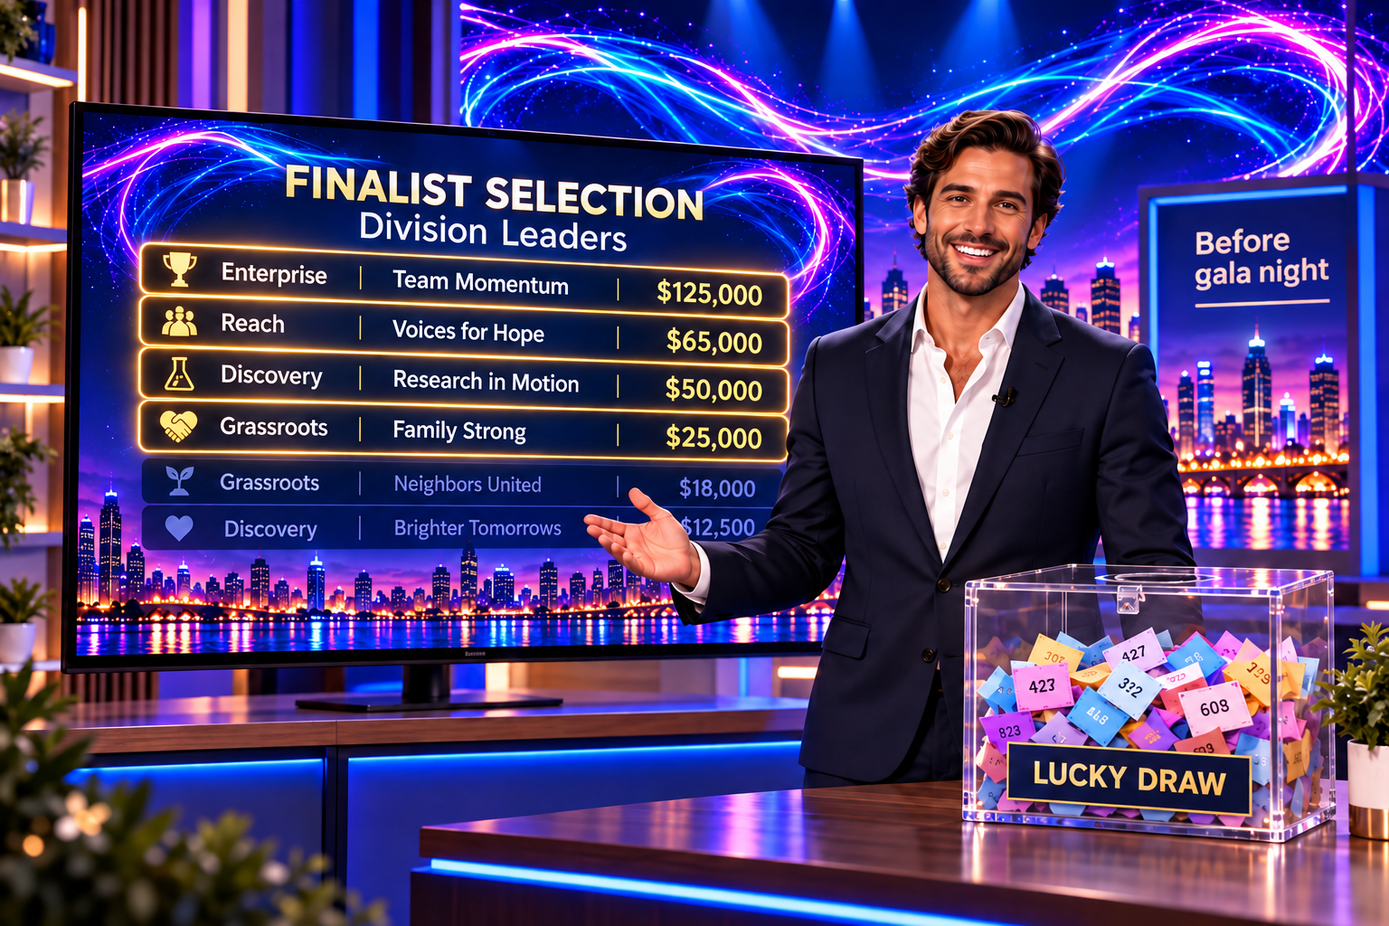
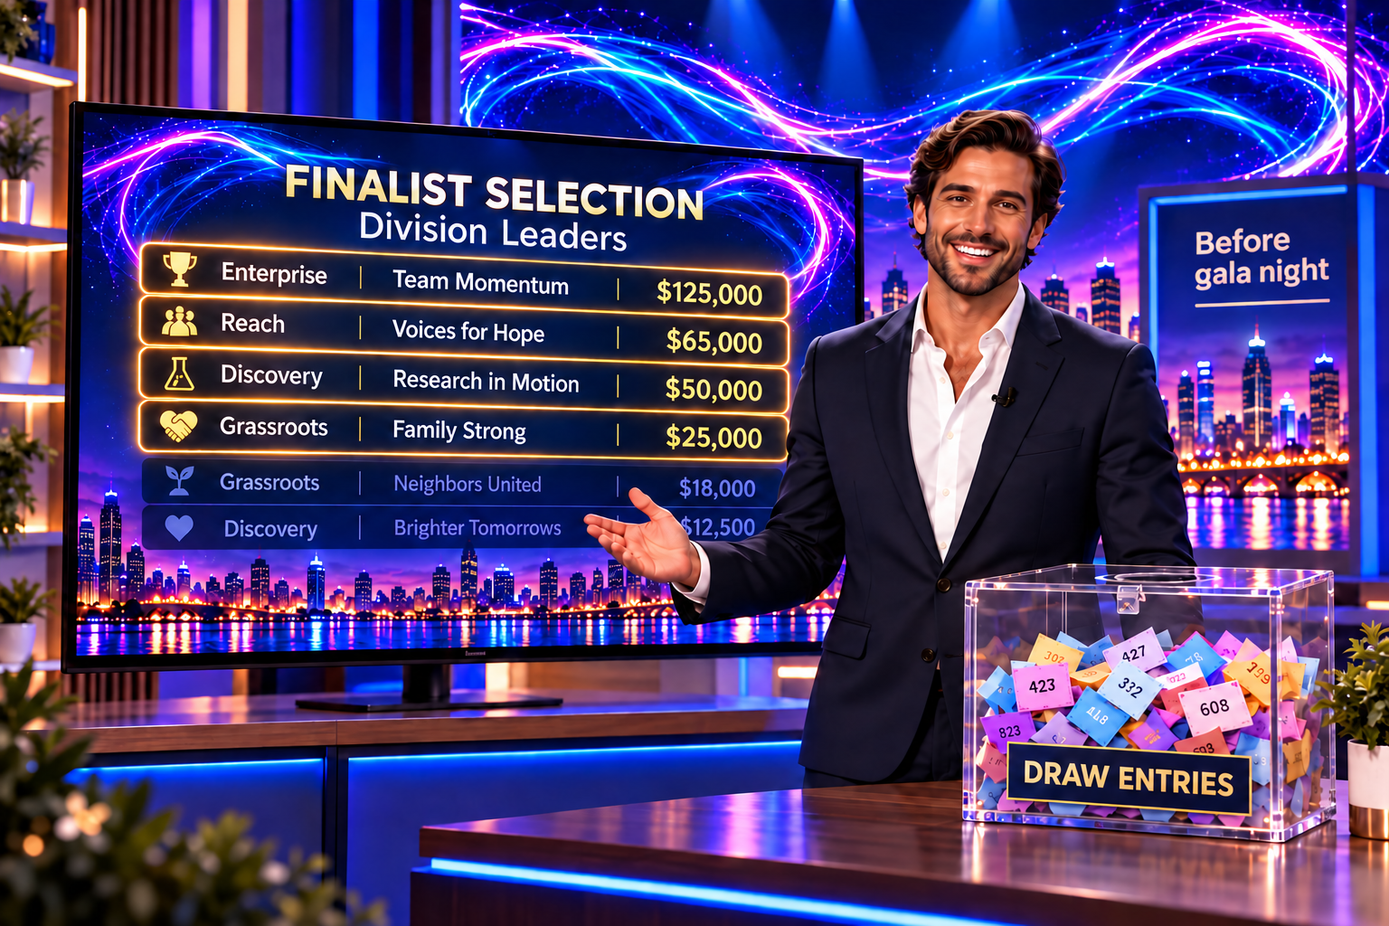
Update section 2 image; add training tagline
Claude-Session: https://claude.ai/code/session_01SDuMShRTmDhf1bS4TY8nhA

diff --git a/how-it-works.html b/how-it-works.html
@@ -1,1 +1,1 @@
-<!doctype html><html lang="en"><head><meta charset="utf-8"><meta name="viewport" content="width=device-width,initial-scale=1"><title>How It Works · Dancing to Beat ALS</title><style>*{box-sizing:border-box}html{scroll-behavior:smooth}body{margin:0;font:15px/1.65 'Segoe UI',sans-serif}main{max-width:1220px;margin:38px auto;padding:0 28px}.eyebrow{font-size:11px;letter-spacing:2px;font-weight:750}h1{font:clamp(34px,4vw,49px)/1.15 Georgia,serif;margin:12px 0 15px;max-width:850px}.flow-intro{max-width:800px;font-size:16px;color:#64708c}.flow-nav{display:grid;grid-template-columns:repeat(6,minmax(0,1fr));gap:12px;margin:28px 0 36px}.flow-nav a{font-size:12px;color:#47529e;text-decoration:none;border:1px solid #d4d9ef;background:#fff;border-radius:8px;padding:12px;display:flex;gap:8px;align-items:center}.flow-nav span,.flow-stage-label span{display:grid;place-items:center;width:26px;height:26px;flex-shrink:0;border-radius:50%;background:#ebeafd;color:#5543ad;font-weight:750}.flow-stage{display:grid;grid-template-columns:1fr 1.15fr;gap:36px;align-items:center;margin:25px 0 45px;padding-bottom:40px;border-bottom:1px solid #dce1f1;scroll-margin-top:20px}.flow-stage:nth-of-type(even) .flow-art{order:2}.flow-art{border-radius:13px;overflow:hidden;background:#101b3c;box-shadow:0 12px 35px #25346b18;line-height:0}.flow-art img{width:100%;aspect-ratio:3/2;object-fit:cover;display:block}.flow-stage-label{display:flex;align-items:center;gap:10px;font-size:11px;text-transform:uppercase;letter-spacing:1.3px;font-weight:750;color:#6543b2}.flow-copy h2{font:30px/1.2 Georgia,serif;margin:12px 0}.flow-copy p,.flow-copy li{font-size:14px;color:#52617e}.flow-copy ul{padding-left:20px}.flow-copy li{margin:7px 0}.flow-copy .flow-small{font-size:12px;color:#64708c}.flow-link{font-weight:650;font-size:13px}.proposal{display:inline-block;background:#f5ecfa;color:#674186!important;border:1px solid #e5d6ef;padding:5px 10px;border-radius:6px;font-size:11px!important}.flow-cta{padding:26px;border-radius:12px;background:linear-gradient(110deg,#15275c,#55318e);color:white;margin:25px 0}.flow-cta h2{color:white;font:29px Georgia,serif;margin:0 0 12px}.flow-cta a{display:inline-block;background:#fff;color:#3449a9;text-decoration:none;border-radius:6px;padding:10px 18px;font-size:13px;font-weight:650;margin:5px 10px 5px 0}footer{font-size:11px;color:#64708c;margin:25px 0}@media(max-width:850px){.flow-nav{grid-template-columns:repeat(2,1fr)}.flow-stage{grid-template-columns:1fr;gap:22px}.flow-stage:nth-of-type(even) .flow-art{order:0}.flow-art img{max-height:370px}.flow-copy h2{font-size:27px}}@media(prefers-reduced-motion:reduce){html{scroll-behavior:auto}}.showcase-panel{display:grid;grid-template-columns:1.4fr 1fr;gap:28px;align-items:center;padding:25px;border:1px solid #d1d7ef;background:linear-gradient(125deg,#edf1ff,#f6edfc);border-radius:14px;margin:15px 0 45px}.showcase-image{border-radius:10px;overflow:hidden;line-height:0;box-shadow:0 10px 30px #25346b18}.showcase-image img{width:100%;height:auto;display:block}.showcase-copy h2{font:30px/1.2 Georgia,serif;margin:12px 0}.showcase-copy>p{font-size:14px;color:#52617e}.showcase-copy .flow-small{font-size:11px;color:#64708c}.showcase-copy .eyebrow{font-size:10px}.showcase-screen{background:#101c49;color:#fff;border-radius:8px;padding:16px;margin-top:16px}.showcase-screen span{display:block;font-size:10px;text-transform:uppercase;letter-spacing:1px;color:#b4c7ff}.showcase-screen strong{display:block;font:23px Georgia,serif;margin:5px 0}.showcase-screen p{font-size:12px;color:#e1e7ff;margin:5px 0}@media(max-width:850px){.showcase-panel{grid-template-columns:1fr;padding:18px}}</style><link rel="stylesheet" href="theme.css?v=electric-palette-v3"><link rel="stylesheet" href="tickets.css?v=2"><script src="review-data.js"></script></head><body><header><img class="event-banner" src="event-header.png?v=panoramic-v2" alt="Dancing to Beat ALS — ballroom couple with electric blue and purple light trails and a glowing city skyline"><div class="header-bar"><div class="brand">DANCING TO BEAT ALS<small>MOVE TOGETHER. MAKE A DIFFERENCE.</small></div><a href="home.html">Home</a><a href="registration.html">Register a Team</a><a href="donate.html">Donate</a><a href="faq.html">FAQ</a><a href="tickets.html">Tickets &amp; Tables</a></div></header><main><div class="eyebrow">FROM YOUR FIRST FUNDRAISER TO THE FINAL BOW.</div><h1>A shared purpose.<br>A journey to the dance floor.</h1><p class="flow-intro">Dancing to Beat ALS starts long before gala night. Follow the journey from building a team and rallying supporters to preparing finalists, celebrating together, and ending the night on the dance floor.</p><nav class="flow-nav" aria-label="Event stages"><a href="#fundraising"><span>1</span>Team fundraising</a><a href="#selection"><span>2</span>Finalist selection</a><a href="#training"><span>3</span>Finalist training</a><a href="#gala"><span>4</span>Dancing to Beat ALS Gala</a><a href="#competition"><span>5</span>Dance competition &amp; awards</a><a href="#dance-party"><span>6</span>Group lesson &amp; dance party</a></nav><section class="flow-stage" id="fundraising"><div class="flow-art"><img src="flow-fundraising.png" alt="Team members gathering around a laptop to rally support for their ALS fundraiser" loading="lazy"></div><div class="flow-copy"><div class="flow-stage-label"><span>1</span>Team fundraising</div><h2>Pick your beneficiary. Form your team. Rally your people.</h2><p>Choose your Team Sponsor, introduce your dancing candidate, and select an ALS beneficiary. Set your fundraising goal and invite friends, family, colleagues, and your wider community to get involved.</p><ul><li>Your sponsor determines your division: Enterprise, Discovery, Reach, or Grassroots.</li><li>Choose Team Entry or the Team &amp; Gala Package where available.</li><li>Team-raised gifts are designated to support the team’s chosen ALS beneficiary and are granted under the Foundation’s grant policy. Any fees will be disclosed before launch. Dance Card fees and table upgrades do not count toward fundraising.</li></ul><a class="flow-link" href="registration.html">Start your team →</a></div></section><section class="flow-stage" id="selection"><div class="flow-art"><img src="flow-selection.png?v=2" alt="A host presenting a finalist selection screen of division-leading teams and fundraising totals, beside a clear box of Draw entries" loading="lazy"></div><div class="flow-copy"><div class="flow-stage-label"><span>2</span>Finalist selection</div><h2>Eight dancers selected to compete.</h2><p>After 12 weeks of fundraising, eight teams earn a place in the gala-night ballroom competition. Each finalist’s dancer partners with a professional.</p><ul><li><strong>4 Division Champions:</strong> the top fundraiser in each division</li><li><strong>3 Draw winners:</strong> teams earn Draw entries by hitting fundraising milestones</li><li><strong>1 Catalyst’s Choice:</strong> a high-impact team or community member, selected by the organizing committee</li></ul><p class="proposal">Proposed format · pending confirmation and legal review</p><a class="flow-link" href="faq.html">Explore selection questions →</a></div></section><section class="flow-stage" id="training"><div class="flow-art"><img src="flow-training.png" alt="A coach helping dancers rehearse, with inclusive partner practice in the background" loading="lazy"></div><div class="flow-copy"><div class="flow-stage-label"><span>3</span>Finalist training</div><h2>From first lesson to gala night.</h2><p>Each finalist dancer is paired with a professional dance trainer, arranged by the event organizers. Over about eight weeks of lessons and rehearsals, they learn a routine together and get ready to perform it at the gala.</p><ul><li>No dance experience needed</li><li>Training adapted to every ability and experience level</li><li>Planned with accessibility in mind</li></ul><p class="proposal">Training schedule and details to be announced</p></div></section><section class="flow-stage" id="gala"><div class="flow-art"><img src="flow-gala.png" alt="An elegant blue-and-violet charity gala ballroom with round tables and city lights" loading="lazy"></div><div class="flow-copy"><div class="flow-stage-label"><span>4</span>Dancing to Beat ALS Gala</div><h2>One evening. A community in motion.</h2><p>Come together for the celebration: supporters, teams, beneficiaries, and finalists sharing an evening centered on the ALS community and the people taking the floor.</p><ul><li>Team &amp; Gala Packages include reserved gala seats; Enterprise includes a table.</li><li>All teams present will hit the dance floor in the Grand Promenade, the showcase group dance (24 teams), or the competition (8 teams).</li><li>A livestream of the gala is planned.</li></ul><p class="flow-small">Event date, venue, running order, and showcase format will be announced. No gala seats are reserved by this mockup.</p><a class="flow-link" href="faq.html">Read about gala seating →</a></div></section><section class="showcase-panel" id="on-the-dance-floor"><div class="showcase-image"><a href="flow-showcase.png" target="_blank" rel="noopener" aria-label="View the gala dance-floor illustration at full size"><img src="flow-showcase.png" loading="lazy" alt="Gala group number with two featured couples in the center, surrounding dancers, a team spotlight screen above the stage, and television cameras around the floor"></a></div><div class="showcase-copy"><div class="eyebrow">ON THE DANCE FLOOR · ON THE NATIONAL STAGE</div><h2>Every team has a moment.</h2><p>A group number brings the floor to life, while featured couples take center stage. The screen tells the story behind the dance: the team, the dancer, the beneficiary, and the funds raised.</p><p>We’re planning a livestream so supporters everywhere can share the performances and the energy of the gala.</p><div class="showcase-screen"><span>Illustrative team spotlight</span><strong>Hope in Motion</strong><p>Dancer: Maya Bennett<br>Beneficiary: ALS Catalyst Foundation<br>Amount raised: $27,500</p></div><p class="flow-small">Fictitious team and fundraising amount shown for illustration. Production, choreography, and the final running order will be confirmed.</p></div></section><section class="flow-stage" id="competition"><div class="flow-art"><img src="flow-competition.png?v=2" alt="A ballroom couple dancing under blue and purple lights while judges hold up score paddles and the gala audience applauds" loading="lazy"></div><div class="flow-copy"><div class="flow-stage-label"><span>5</span>Dance competition & awards</div><h2>Celebrate the stories behind every step.</h2><p>The finalists’ performances bring the journey to its finale. The dance floor becomes a place to celebrate courage, community, and the fundraising impact behind each team.</p><p>Judges will include Allen Genkin, who competed on <em>Dancing with the Stars: The Next Pro</em>.</p><p class="proposal">More judges and competition details to be announced</p><a class="flow-link" href="faq.html">Competition questions →</a></div></section><section class="flow-stage" id="dance-party"><div class="flow-art"><img src="flow-dance-party.png" alt="Dance instructors leading smiling gala guests in loose lines through a fun group dance lesson, with guests in varied going-out attire" loading="lazy"></div><div class="flow-copy"><div class="flow-stage-label"><span>6</span>Group dance lesson &amp; dance party</div><h2>The night ends with everyone dancing.</h2><p>Now it’s your turn. A planned group dance lesson gets everyone moving, then the celebration keeps going with a dance party for all guests.</p><ul><li>Learn a few easy steps together, then make them your own.</li><li>Some guests will follow every move. Some will find their own rhythm. Everyone can enjoy the moment.</li><li>From cocktail dresses to shirtsleeves, the floor fills with gala guests smiling, laughing, and dancing together.</li></ul><p class="flow-small">No dance experience required. The final music, lesson format, accessibility arrangements, and timing will be confirmed. Image is an illustrative event visualization.</p><a class="flow-link" href="registration.html">Be part of the celebration →</a></div></section><section class="flow-cta"><h2>Ready to make your move?</h2><a href="tickets.html" data-open-tickets>Purchase Tickets →</a><a href="registration.html">Register a Team →</a><a href="donate.html">Make a Donation →</a><a href="faq.html">Frequently Asked Questions →</a></section><footer>Event overview · Unconfirmed dates, training arrangements, and proposed competition rules will be updated as details are finalized. Local mockup payments and emails are simulated.</footer></main><script src="tickets.js?v=3" defer></script><p style="text-align:center;padding:12px;font:12px sans-serif">Committee review mockup · Payments and emails are simulated. Test registrations stay in this browser.</p></body></html>
+<!doctype html><html lang="en"><head><meta charset="utf-8"><meta name="viewport" content="width=device-width,initial-scale=1"><title>How It Works · Dancing to Beat ALS</title><style>*{box-sizing:border-box}html{scroll-behavior:smooth}body{margin:0;font:15px/1.65 'Segoe UI',sans-serif}main{max-width:1220px;margin:38px auto;padding:0 28px}.eyebrow{font-size:11px;letter-spacing:2px;font-weight:750}h1{font:clamp(34px,4vw,49px)/1.15 Georgia,serif;margin:12px 0 15px;max-width:850px}.flow-intro{max-width:800px;font-size:16px;color:#64708c}.flow-nav{display:grid;grid-template-columns:repeat(6,minmax(0,1fr));gap:12px;margin:28px 0 36px}.flow-nav a{font-size:12px;color:#47529e;text-decoration:none;border:1px solid #d4d9ef;background:#fff;border-radius:8px;padding:12px;display:flex;gap:8px;align-items:center}.flow-nav span,.flow-stage-label span{display:grid;place-items:center;width:26px;height:26px;flex-shrink:0;border-radius:50%;background:#ebeafd;color:#5543ad;font-weight:750}.flow-stage{display:grid;grid-template-columns:1fr 1.15fr;gap:36px;align-items:center;margin:25px 0 45px;padding-bottom:40px;border-bottom:1px solid #dce1f1;scroll-margin-top:20px}.flow-stage:nth-of-type(even) .flow-art{order:2}.flow-art{border-radius:13px;overflow:hidden;background:#101b3c;box-shadow:0 12px 35px #25346b18;line-height:0}.flow-art img{width:100%;aspect-ratio:3/2;object-fit:cover;display:block}.flow-stage-label{display:flex;align-items:center;gap:10px;font-size:11px;text-transform:uppercase;letter-spacing:1.3px;font-weight:750;color:#6543b2}.flow-copy h2{font:30px/1.2 Georgia,serif;margin:12px 0}.flow-copy p,.flow-copy li{font-size:14px;color:#52617e}.flow-copy ul{padding-left:20px}.flow-copy li{margin:7px 0}.flow-copy .flow-small{font-size:12px;color:#64708c}.flow-link{font-weight:650;font-size:13px}.proposal{display:inline-block;background:#f5ecfa;color:#674186!important;border:1px solid #e5d6ef;padding:5px 10px;border-radius:6px;font-size:11px!important}.flow-cta{padding:26px;border-radius:12px;background:linear-gradient(110deg,#15275c,#55318e);color:white;margin:25px 0}.flow-cta h2{color:white;font:29px Georgia,serif;margin:0 0 12px}.flow-cta a{display:inline-block;background:#fff;color:#3449a9;text-decoration:none;border-radius:6px;padding:10px 18px;font-size:13px;font-weight:650;margin:5px 10px 5px 0}footer{font-size:11px;color:#64708c;margin:25px 0}@media(max-width:850px){.flow-nav{grid-template-columns:repeat(2,1fr)}.flow-stage{grid-template-columns:1fr;gap:22px}.flow-stage:nth-of-type(even) .flow-art{order:0}.flow-art img{max-height:370px}.flow-copy h2{font-size:27px}}@media(prefers-reduced-motion:reduce){html{scroll-behavior:auto}}.showcase-panel{display:grid;grid-template-columns:1.4fr 1fr;gap:28px;align-items:center;padding:25px;border:1px solid #d1d7ef;background:linear-gradient(125deg,#edf1ff,#f6edfc);border-radius:14px;margin:15px 0 45px}.showcase-image{border-radius:10px;overflow:hidden;line-height:0;box-shadow:0 10px 30px #25346b18}.showcase-image img{width:100%;height:auto;display:block}.showcase-copy h2{font:30px/1.2 Georgia,serif;margin:12px 0}.showcase-copy>p{font-size:14px;color:#52617e}.showcase-copy .flow-small{font-size:11px;color:#64708c}.showcase-copy .eyebrow{font-size:10px}.showcase-screen{background:#101c49;color:#fff;border-radius:8px;padding:16px;margin-top:16px}.showcase-screen span{display:block;font-size:10px;text-transform:uppercase;letter-spacing:1px;color:#b4c7ff}.showcase-screen strong{display:block;font:23px Georgia,serif;margin:5px 0}.showcase-screen p{font-size:12px;color:#e1e7ff;margin:5px 0}@media(max-width:850px){.showcase-panel{grid-template-columns:1fr;padding:18px}}</style><link rel="stylesheet" href="theme.css?v=electric-palette-v3"><link rel="stylesheet" href="tickets.css?v=2"><script src="review-data.js"></script></head><body><header><img class="event-banner" src="event-header.png?v=panoramic-v2" alt="Dancing to Beat ALS — ballroom couple with electric blue and purple light trails and a glowing city skyline"><div class="header-bar"><div class="brand">DANCING TO BEAT ALS<small>MOVE TOGETHER. MAKE A DIFFERENCE.</small></div><a href="home.html">Home</a><a href="registration.html">Register a Team</a><a href="donate.html">Donate</a><a href="faq.html">FAQ</a><a href="tickets.html">Tickets &amp; Tables</a></div></header><main><div class="eyebrow">FROM YOUR FIRST FUNDRAISER TO THE FINAL BOW.</div><h1>A shared purpose.<br>A journey to the dance floor.</h1><p class="flow-intro">Dancing to Beat ALS starts long before gala night. Follow the journey from building a team and rallying supporters to preparing finalists, celebrating together, and ending the night on the dance floor.</p><nav class="flow-nav" aria-label="Event stages"><a href="#fundraising"><span>1</span>Team fundraising</a><a href="#selection"><span>2</span>Finalist selection</a><a href="#training"><span>3</span>Finalist training</a><a href="#gala"><span>4</span>Dancing to Beat ALS Gala</a><a href="#competition"><span>5</span>Dance competition &amp; awards</a><a href="#dance-party"><span>6</span>Group lesson &amp; dance party</a></nav><section class="flow-stage" id="fundraising"><div class="flow-art"><img src="flow-fundraising.png" alt="Team members gathering around a laptop to rally support for their ALS fundraiser" loading="lazy"></div><div class="flow-copy"><div class="flow-stage-label"><span>1</span>Team fundraising</div><h2>Pick your beneficiary. Form your team. Rally your people.</h2><p>Choose your Team Sponsor, introduce your dancing candidate, and select an ALS beneficiary. Set your fundraising goal and invite friends, family, colleagues, and your wider community to get involved.</p><ul><li>Your sponsor determines your division: Enterprise, Discovery, Reach, or Grassroots.</li><li>Choose Team Entry or the Team &amp; Gala Package where available.</li><li>Team-raised gifts are designated to support the team’s chosen ALS beneficiary and are granted under the Foundation’s grant policy. Any fees will be disclosed before launch. Dance Card fees and table upgrades do not count toward fundraising.</li></ul><a class="flow-link" href="registration.html">Start your team →</a></div></section><section class="flow-stage" id="selection"><div class="flow-art"><img src="flow-selection.png?v=3" alt="A host presenting a finalist selection screen of division-leading teams and fundraising totals, beside a clear box of Draw entries" loading="lazy"></div><div class="flow-copy"><div class="flow-stage-label"><span>2</span>Finalist selection</div><h2>Eight dancers selected to compete.</h2><p>After 12 weeks of fundraising, eight teams earn a place in the gala-night ballroom competition. Each finalist’s dancer partners with a professional.</p><ul><li><strong>4 Division Champions:</strong> the top fundraiser in each division</li><li><strong>3 Draw winners:</strong> teams earn Draw entries by hitting fundraising milestones</li><li><strong>1 Catalyst’s Choice:</strong> a high-impact team or community member, selected by the organizing committee</li></ul><p class="proposal">Proposed format · pending confirmation and legal review</p><a class="flow-link" href="faq.html">Explore selection questions →</a></div></section><section class="flow-stage" id="training"><div class="flow-art"><img src="flow-training.png" alt="A coach helping dancers rehearse, with inclusive partner practice in the background" loading="lazy"></div><div class="flow-copy"><div class="flow-stage-label"><span>3</span>Finalist training</div><h2>From first lesson to gala night.</h2><p style="font:italic 18px/1.4 Georgia,serif;color:#6345ad;margin:-4px 0 12px">Turn a little courage into confidence.</p><p>Each finalist dancer is paired with a professional dance trainer, arranged by the event organizers. Over about eight weeks of lessons and rehearsals, they learn a routine together and get ready to perform it at the gala.</p><ul><li>No dance experience needed</li><li>Training adapted to every ability and experience level</li><li>Planned with accessibility in mind</li></ul><p class="proposal">Training schedule and details to be announced</p></div></section><section class="flow-stage" id="gala"><div class="flow-art"><img src="flow-gala.png" alt="An elegant blue-and-violet charity gala ballroom with round tables and city lights" loading="lazy"></div><div class="flow-copy"><div class="flow-stage-label"><span>4</span>Dancing to Beat ALS Gala</div><h2>One evening. A community in motion.</h2><p>Come together for the celebration: supporters, teams, beneficiaries, and finalists sharing an evening centered on the ALS community and the people taking the floor.</p><ul><li>Team &amp; Gala Packages include reserved gala seats; Enterprise includes a table.</li><li>All teams present will hit the dance floor in the Grand Promenade, the showcase group dance (24 teams), or the competition (8 teams).</li><li>A livestream of the gala is planned.</li></ul><p class="flow-small">Event date, venue, running order, and showcase format will be announced. No gala seats are reserved by this mockup.</p><a class="flow-link" href="faq.html">Read about gala seating →</a></div></section><section class="showcase-panel" id="on-the-dance-floor"><div class="showcase-image"><a href="flow-showcase.png" target="_blank" rel="noopener" aria-label="View the gala dance-floor illustration at full size"><img src="flow-showcase.png" loading="lazy" alt="Gala group number with two featured couples in the center, surrounding dancers, a team spotlight screen above the stage, and television cameras around the floor"></a></div><div class="showcase-copy"><div class="eyebrow">ON THE DANCE FLOOR · ON THE NATIONAL STAGE</div><h2>Every team has a moment.</h2><p>A group number brings the floor to life, while featured couples take center stage. The screen tells the story behind the dance: the team, the dancer, the beneficiary, and the funds raised.</p><p>We’re planning a livestream so supporters everywhere can share the performances and the energy of the gala.</p><div class="showcase-screen"><span>Illustrative team spotlight</span><strong>Hope in Motion</strong><p>Dancer: Maya Bennett<br>Beneficiary: ALS Catalyst Foundation<br>Amount raised: $27,500</p></div><p class="flow-small">Fictitious team and fundraising amount shown for illustration. Production, choreography, and the final running order will be confirmed.</p></div></section><section class="flow-stage" id="competition"><div class="flow-art"><img src="flow-competition.png?v=2" alt="A ballroom couple dancing under blue and purple lights while judges hold up score paddles and the gala audience applauds" loading="lazy"></div><div class="flow-copy"><div class="flow-stage-label"><span>5</span>Dance competition & awards</div><h2>Celebrate the stories behind every step.</h2><p>The finalists’ performances bring the journey to its finale. The dance floor becomes a place to celebrate courage, community, and the fundraising impact behind each team.</p><p>Judges will include Allen Genkin, who competed on <em>Dancing with the Stars: The Next Pro</em>.</p><p class="proposal">More judges and competition details to be announced</p><a class="flow-link" href="faq.html">Competition questions →</a></div></section><section class="flow-stage" id="dance-party"><div class="flow-art"><img src="flow-dance-party.png" alt="Dance instructors leading smiling gala guests in loose lines through a fun group dance lesson, with guests in varied going-out attire" loading="lazy"></div><div class="flow-copy"><div class="flow-stage-label"><span>6</span>Group dance lesson &amp; dance party</div><h2>The night ends with everyone dancing.</h2><p>Now it’s your turn. A planned group dance lesson gets everyone moving, then the celebration keeps going with a dance party for all guests.</p><ul><li>Learn a few easy steps together, then make them your own.</li><li>Some guests will follow every move. Some will find their own rhythm. Everyone can enjoy the moment.</li><li>From cocktail dresses to shirtsleeves, the floor fills with gala guests smiling, laughing, and dancing together.</li></ul><p class="flow-small">No dance experience required. The final music, lesson format, accessibility arrangements, and timing will be confirmed. Image is an illustrative event visualization.</p><a class="flow-link" href="registration.html">Be part of the celebration →</a></div></section><section class="flow-cta"><h2>Ready to make your move?</h2><a href="tickets.html" data-open-tickets>Purchase Tickets →</a><a href="registration.html">Register a Team →</a><a href="donate.html">Make a Donation →</a><a href="faq.html">Frequently Asked Questions →</a></section><footer>Event overview · Unconfirmed dates, training arrangements, and proposed competition rules will be updated as details are finalized. Local mockup payments and emails are simulated.</footer></main><script src="tickets.js?v=3" defer></script><p style="text-align:center;padding:12px;font:12px sans-serif">Committee review mockup · Payments and emails are simulated. Test registrations stay in this browser.</p></body></html>
